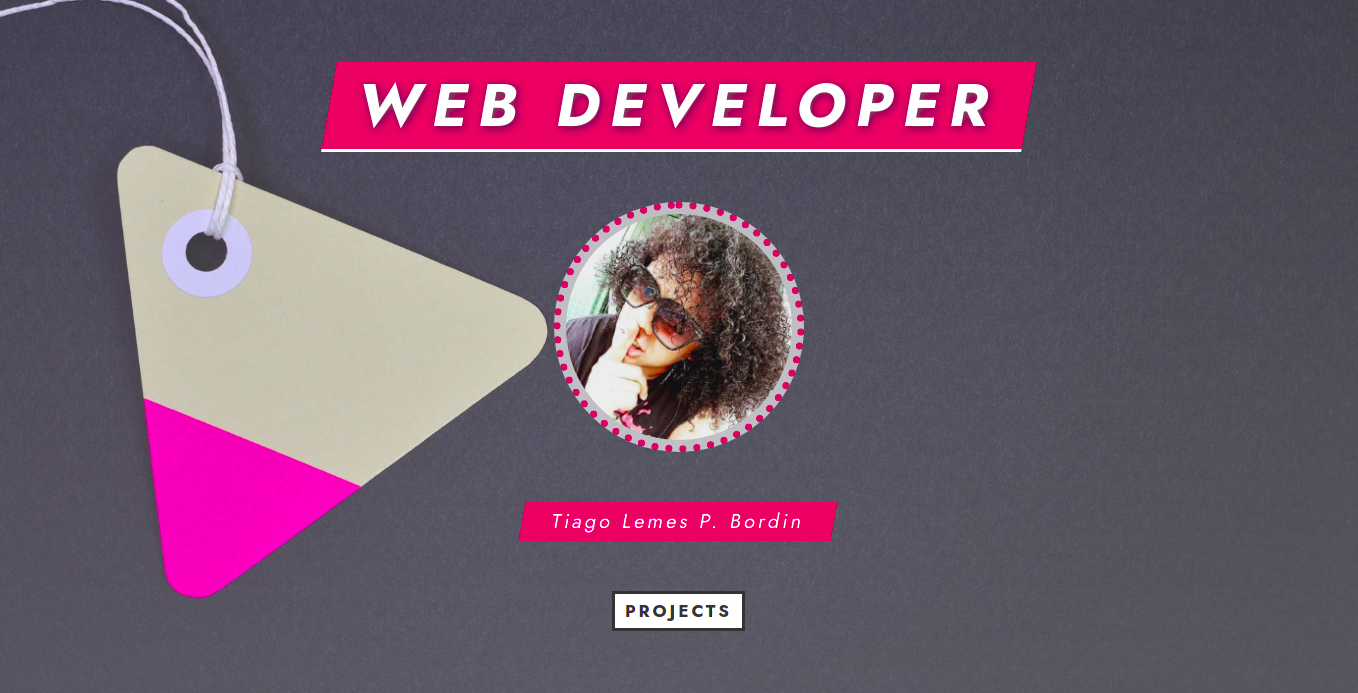
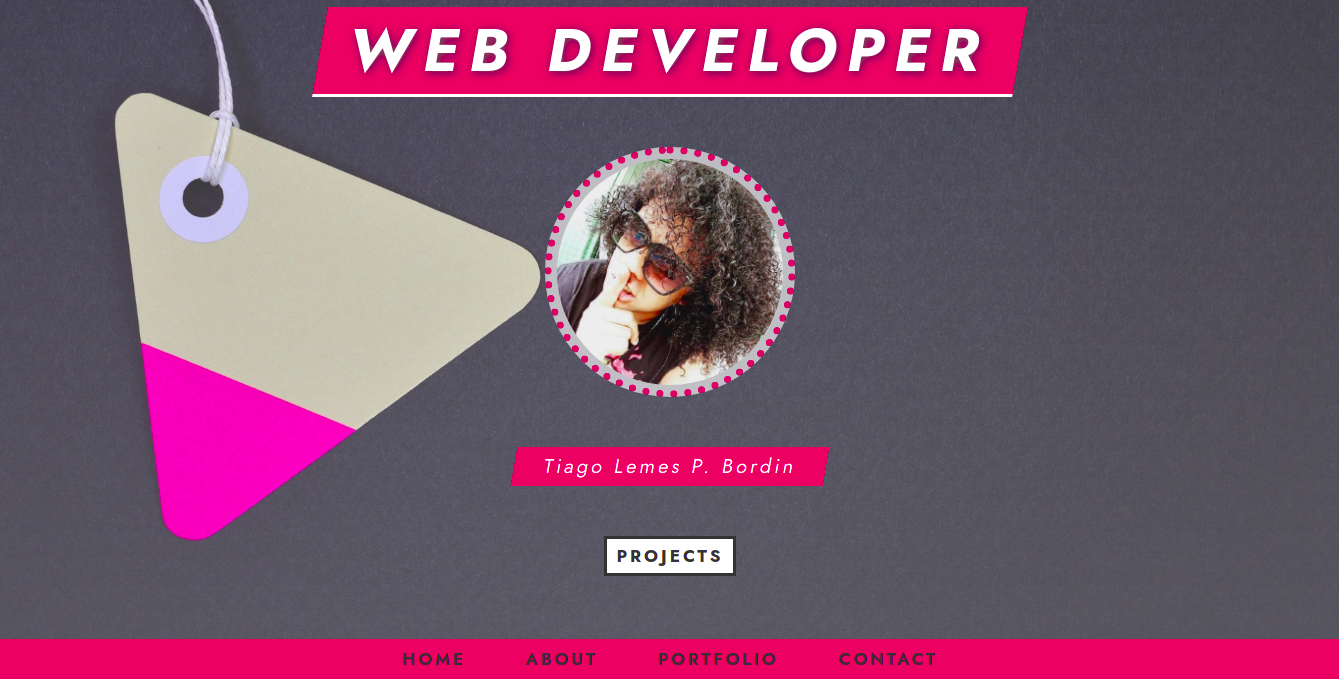
Create and Style Navigation

diff --git a/css.css b/css.css
@@ -15,7 +15,11 @@ html {
 }
 /* End Reset and Common Styles */
 
-
+.center {
+	display: flex;
+	justify-content: center;
+	align-items: center;
+}
 
 /* Section 1 */
 .section-1 {
@@ -28,10 +32,7 @@ html {
 		), 
 		url(images/bg.jpg) center no-repeat;
 	background-size: cover;
-	display: flex;
 	flex-direction: column;
-	justify-content: center;
-	align-items: center;
 }
 
 
@@ -81,3 +82,50 @@ html {
 	letter-spacing: .3rem;
 }
 /* End Section 1 */
+
+
+
+
+
+
+/* navbar */
+.navbar {
+	width: 100%;
+	height: 4rem;
+	background-color: #e41c6f;
+	box-shadow: .2rem .2rem .5rem #555;
+}
+
+.navbar-link {
+	font-size: 1.7rem;
+	font-weight: 600;
+	color: #333;
+	margin: 0 3rem;
+	letter-spacing: .3rem;
+	text-transform: uppercase;
+	position: relative;
+}
+
+.navbar-link::before {
+	content: "";
+	width: 0;
+	height: .2rem;
+	background-color: white;
+	position: absolute;
+	right: -15%;
+	bottom: -.3rem;
+	transition: width .2s;
+}
+
+.navbar-link:hover {
+	color: white;
+	transition: color .2s;
+	cursor: pointer;
+}
+
+.navbar-link:hover::before {
+	width: 130%;
+}
+
+
+/* end navbar */

diff --git a/index.html b/index.html
@@ -17,13 +17,29 @@
 	<div class="container">
 
 		<!-- section  1 -->
-		<section class="section-1">
+		<section class="section-1 center">
 			<h1 class="section-1-heading">Web developer</h1>
 			<img src="images/tiago.jpeg" alt="Tiago Developer" class="person-img">
 			<h3 class="person-name">Tiago Lemes P. Bordin</h3>
 			<a href="#" class="section-1-btn">projects</a>
 		</section>		
 		<!-- end section  1 -->
+
+		<!-- nabvar -->
+		<nav class="navbar center">
+			<a class="navbar-link">Home</a>
+			<a class="navbar-link">About</a>
+			<a class="navbar-link">Portfolio</a>
+			<a class="navbar-link">Contact</a>
+		</nav>
+		<br>
+		<br>
+		<br>
+		<br>
+		<br>
+		<br>
+		<br>
+		<!-- end nabvar -->
 
 	</div>
 
